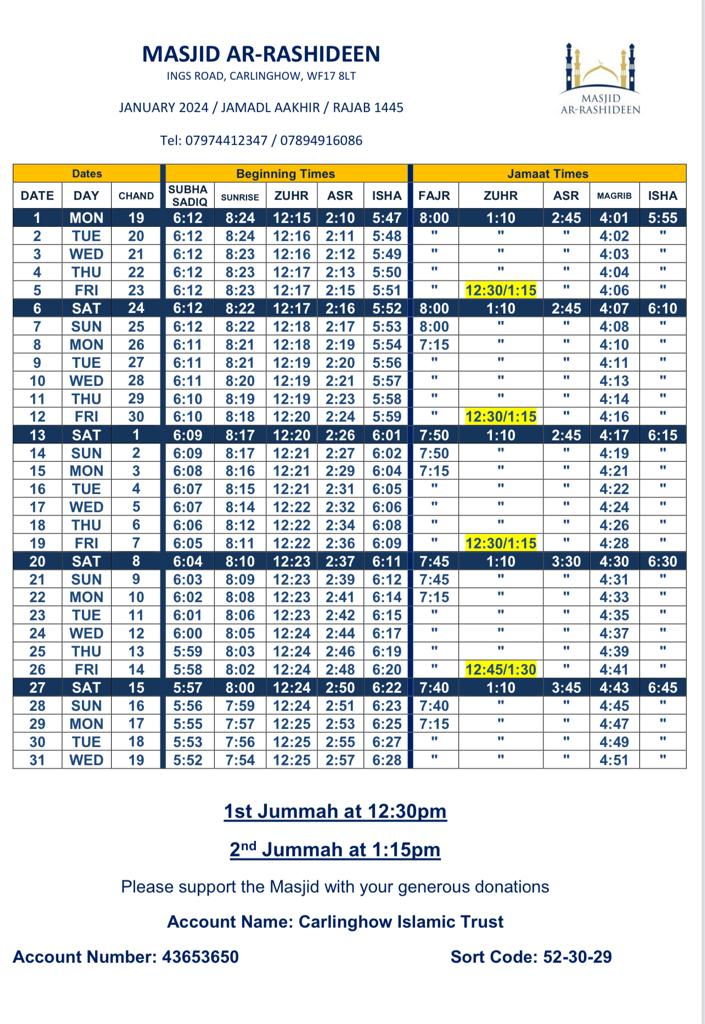
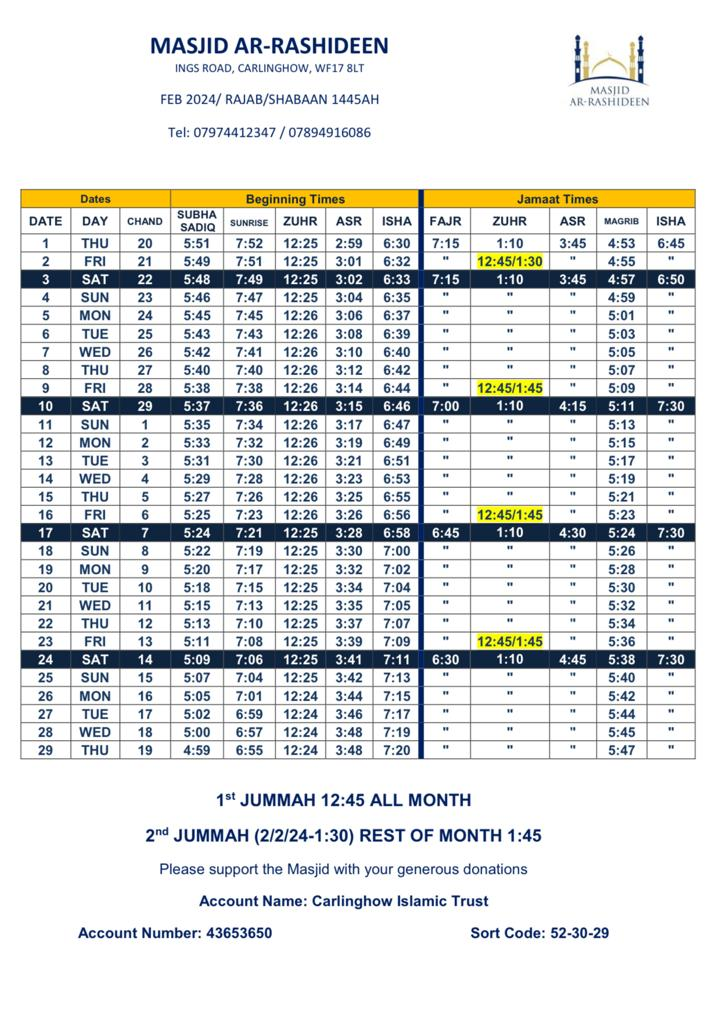
Feb 2024 updated

diff --git a/indexNew.html b/indexNew.html
@@ -1,0 +1,23 @@
+<head>
+    <meta charset="UTF-8">
+    <meta name="viewport" content="width=device-width, initial-scale=1.0">
+    <title>Image Display</title>
+    <style>
+        body {
+            display: flex;
+            align-items: center;
+            justify-content: center;
+            height: 100vh; /* This ensures the entire viewport height is covered */
+            margin: 0; /* Remove default margin to center accurately */
+        }
+
+        img {
+            max-width: 100%; /* Ensure the image doesn't exceed its natural size */
+            max-height: 100vh; /* Ensure the image doesn't exceed the viewport height */
+        }
+    </style>
+</head>
+<body>
+    <img src="masjid-ar-rashideen.jpg" alt="Displayed Image">
+</body>
+</html>
